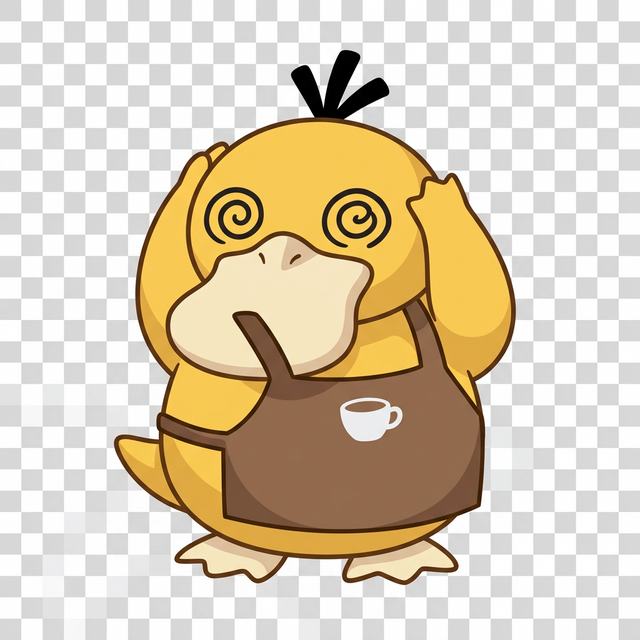
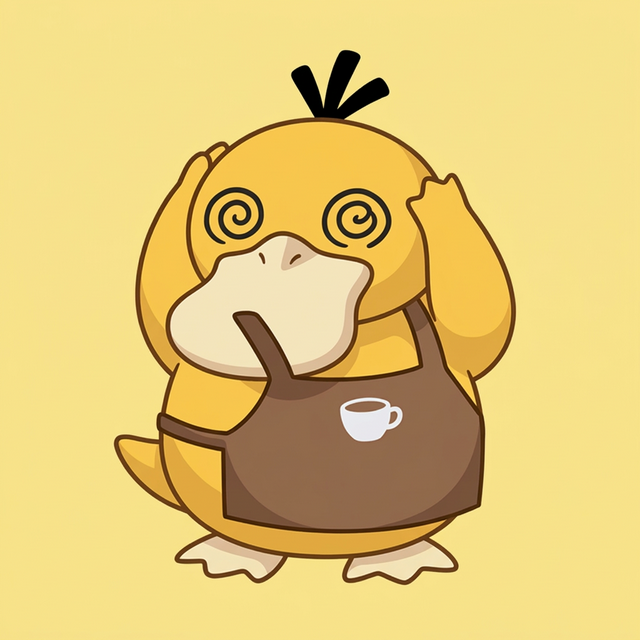
feat: 챗봇 이스터에그 (개인정보, 사장님 극찬) 및 배경 이미지 개선

diff --git a/frontend/components/common/AgentChat/AgentChat.tsx b/frontend/components/common/AgentChat/AgentChat.tsx
@@ -146,6 +146,22 @@ function generateBotResponse(userText: string): BotResponse {
         };
     }
 
+    // 9. 이스터에그: 개인정보 방어 (이름, 나은)
+    if (/나은/.test(t) || (/이름/.test(t) && /뭐|알려|누구/.test(t))) {
+        return {
+            text: '쿠웨에엑! 🚨 삐빅!\n그건 치명적인 개인정보라 이 파덕이가 절대!!! 말해줄 수 없다덕!!! 🤐💦 (철통 보안!)',
+            quickReplies: ['사장님이 그렇게 이뻐?', '알았어 메뉴나 줘']
+        };
+    }
+
+    // 10. 이스터에그: 사장님 극찬
+    if (/사장|주인/.test(t)) {
+        return {
+            text: '파덕! 우리 고라파덕 카페에는 엄청나게 예뻐서 눈이 부시는 사장님이 계신다덕! ✨😎\n(파덕이는 매일 심쿵한다덕...)',
+            quickReplies: ['사장님 이름이 뭐야?', '나은이가 누구야?', '메뉴 추천해줘']
+        };
+    }
+
     // Fallback
     return {
         text: '파...덕? 🤔 무슨 말인지 잘 모르겠다덕!\n메뉴를 추천받거나 주문해보라덕!',
